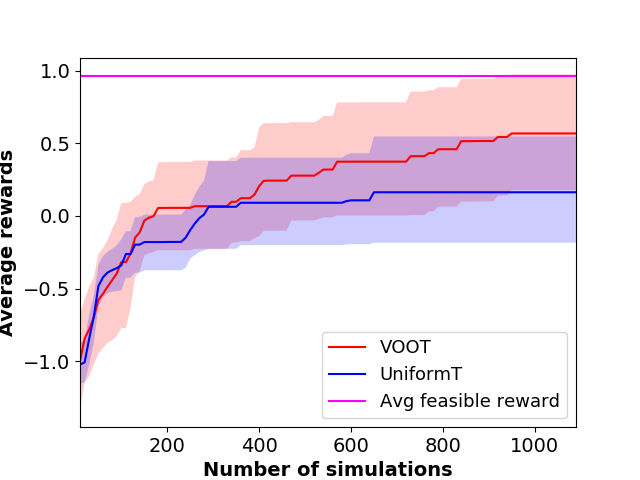
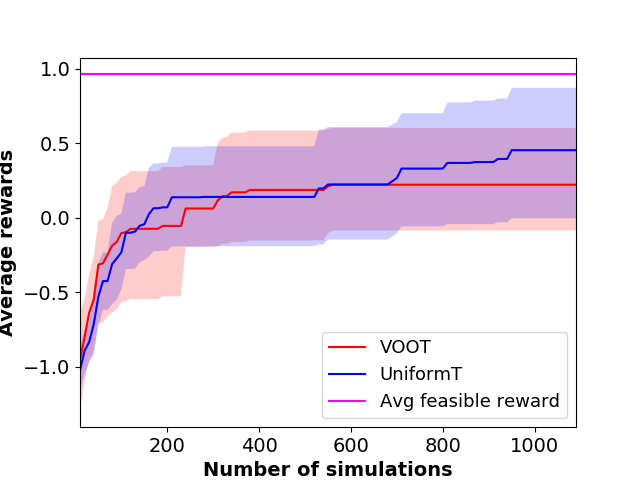
3

Changed region(s): [[0.0312, 0.125, 0.9062, 0.8125], [0.0625, 0.4375, 0.125, 0.4688]]

diff --git a/planners/mcts_tree_node.py b/planners/mcts_tree_node.py
@@ -42,23 +42,33 @@ class TreeNode:
         no_evaled = [a for a in self.A if a not in self.Q.keys()]
         return np.random.choice(no_evaled)
 
-    def is_ucb_step(self, widening_parameter, infeasible_rwd):
-        n_arms = len(self.A)
-        if n_arms < 5:
-            return False
+    def is_ucb_step(self, widening_parameter, infeasible_rwd, use_progressive_widening):
+        if use_progressive_widening:
+            n_actions = len(self.A)
+            is_time_to_sample = n_actions <= widening_parameter * self.Nvisited
+            if len(self.Q.values()) > 0:
+                all_explored_actions_are_infeasible = np.max(self.reward_history.values()) == infeasible_rwd
+                is_next_node_goal = np.all([child.is_goal_node for child in self.children.values()])
+                is_time_to_sample = is_time_to_sample or all_explored_actions_are_infeasible \
+                                        or is_next_node_goal
+            return is_time_to_sample
         else:
-            all_explored_actions_are_infeasible = np.max(self.reward_history.values()) == infeasible_rwd
-            next_state_terminal = np.any([c.is_goal_node for c in self.children.values()]) # always sample a new action if next state is terminal state
-
-            if all_explored_actions_are_infeasible or next_state_terminal:
+            n_arms = len(self.A)
+            if n_arms < 5:
                 return False
-
-            if self.n_ucb_iterations < widening_parameter:
-                self.n_ucb_iterations += 1
-                return True
             else:
-                self.n_ucb_iterations = 0
-                return False
+                all_explored_actions_are_infeasible = np.max(self.reward_history.values()) == infeasible_rwd
+                next_state_terminal = np.any([c.is_goal_node for c in self.children.values()]) # always sample a new action if next state is terminal state
+
+                if all_explored_actions_are_infeasible or next_state_terminal:
+                    return False
+
+                if self.n_ucb_iterations < widening_parameter:
+                    self.n_ucb_iterations += 1
+                    return True
+                else:
+                    self.n_ucb_iterations = 0
+                    return False
 
     def perform_ucb_over_actions(self):
         best_value = -np.inf

diff --git a/planners/mcts.py b/planners/mcts.py
@@ -43,7 +43,7 @@ def create_doo_agent(operator):
 class MCTS:
     def __init__(self, widening_parameter, exploration_parameters,
                  sampling_strategy, sampling_strategy_exploration_parameter, c1, n_feasibility_checks,
-                 environment, domain_name):
+                 environment, use_progressive_widening, domain_name):
         self.c1 = c1
         self.widening_parameter = widening_parameter
         self.exploration_parameters = exploration_parameters
@@ -53,6 +53,7 @@ class MCTS:
         self.sampling_strategy = sampling_strategy
         self.sampling_strategy_exploration_parameter = sampling_strategy_exploration_parameter
         self.depth_limit = 300
+        self.use_progressive_widening = use_progressive_widening
 
         self.env = self.environment.env
         self.robot = self.environment.robot
@@ -199,7 +200,8 @@ class MCTS:
         return search_time_to_reward, plan
 
     def choose_action(self, curr_node):
-        if not curr_node.is_ucb_step(self.widening_parameter, self.environment.infeasible_reward):
+        if not curr_node.is_ucb_step(self.widening_parameter, self.environment.infeasible_reward,
+                                     self.use_progressive_widening):
             print "Sampling new action"
             new_continuous_parameters = self.sample_continuous_parameters(curr_node)
             curr_node.add_actions(new_continuous_parameters)

diff --git a/test_scripts/test_mcts.py b/test_scripts/test_mcts.py
@@ -87,10 +87,11 @@ def instantiate_mcts(args, problem_env):
     n_feasibility_checks = args.n_feasibility_checks
     c1 = args.c1
     domain_name = args.domain
+    use_progressive_widening = args.use_progressive_widening
 
     mcts = MCTS(widening_parameter, uct_parameter, sampling_strategy,
                 sampling_strategy_exploration_parameter, c1, n_feasibility_checks,
-                problem_env, domain_name)
+                problem_env, use_progressive_widening, domain_name)
     return mcts
 
 
@@ -119,6 +120,7 @@ def main():
     parser.add_argument('-planner', type=str, default='mcts')
     parser.add_argument('-v', action='store_true', default=False)
     parser.add_argument('-debug', action='store_true', default=False)
+    parser.add_argument('-progressive_widening', action='store_true', default=False)
     parser.add_argument('-mcts_iter', type=int, default=500)
     parser.add_argument('-seed', type=int, default=50)
     parser.add_argument('-max_time', type=float, default=np.inf)

diff --git a/plotters/plot_planners.py b/plotters/plot_planners.py
@@ -221,13 +221,12 @@ def plot_across_algorithms():
     else:
         sns.tsplot([0.962]*len(organized_times[:args.mcts_iter]), organized_times[:args.mcts_iter],
                    ci=95, condition='Avg feasible reward', color='magenta')
-    #if args.domain=='namo':
-    #    plt.ylim([2, 4.5])
 
+    plot_name = args.domain + '_pidx_' + str(args.pidx) + '_w_' + str(args.w) + '_mcts_iter_' + str(args.mcts_iter)
     if args.t:
         savefig('Times (s)', 'Average rewards', fname='./plotters/t_' + args.domain + '_w_' + str(args.w))
     else:
-        savefig('Number of simulations', 'Average rewards', fname='./plotters/' + args.domain + '_pidx_' + str(args.pidx))
+        savefig('Number of simulations', 'Average rewards', fname='./plotters/'+plot_name)
 
 
 if __name__ == '__main__':

diff --git a/test_scripts/threaded_test_mcts.py b/test_scripts/threaded_test_mcts.py
@@ -22,7 +22,7 @@ def worker_p(config):
         ' -random_seed ' + str(seed)
 
     print command
-    #os.system(command)
+    os.system(command)
 
 
 def worker_wrapper_multi_input(multi_args):
